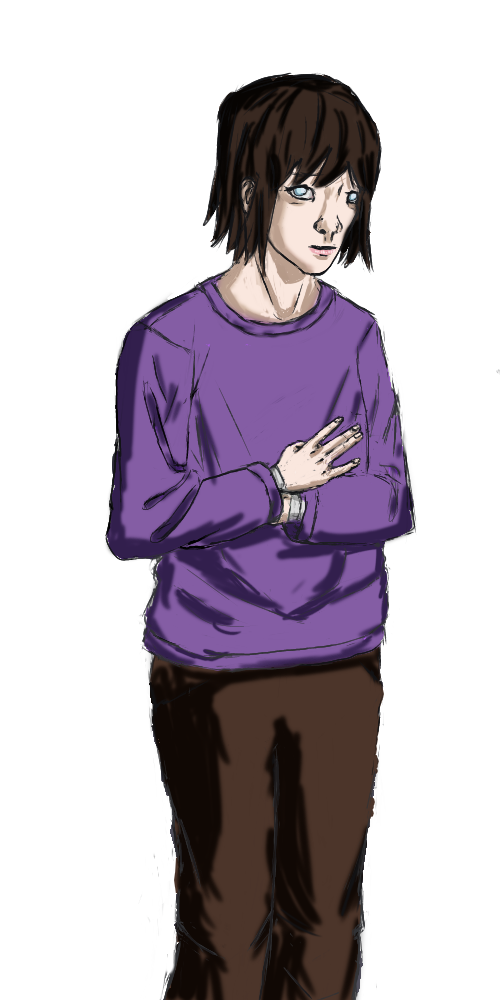
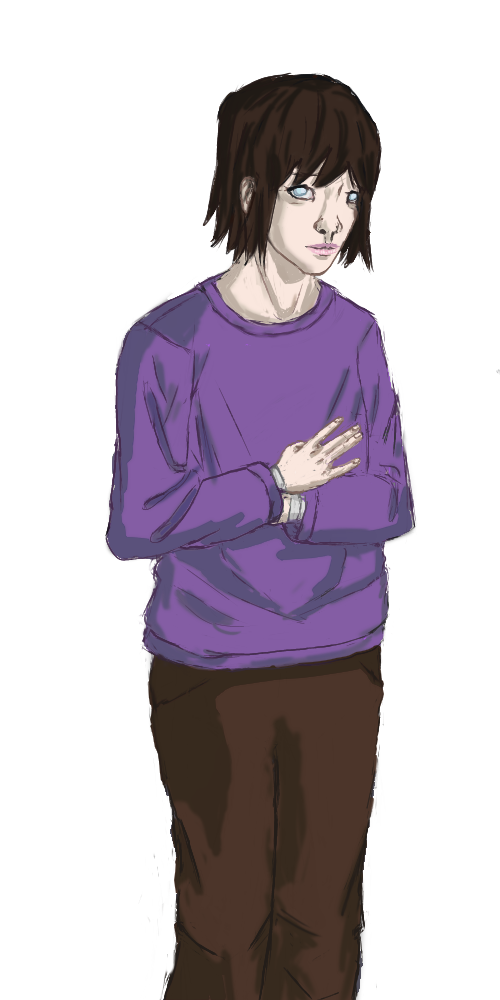
Changed image and fixed json
Kept aspect ratio of images by changing height to auto.
Fixed Ayaka's image because the shading layer was on multiply for some reason.
Fixed formatting in JSON.

diff --git a/style.css b/style.css
@@ -65,8 +65,8 @@ body {
 }
 
 .character {
-  width: 40%;
-  height: 100%;
+  width: 30%;
+  height: auto;
   position: relative;
   margin: auto;
   top: 20%;
